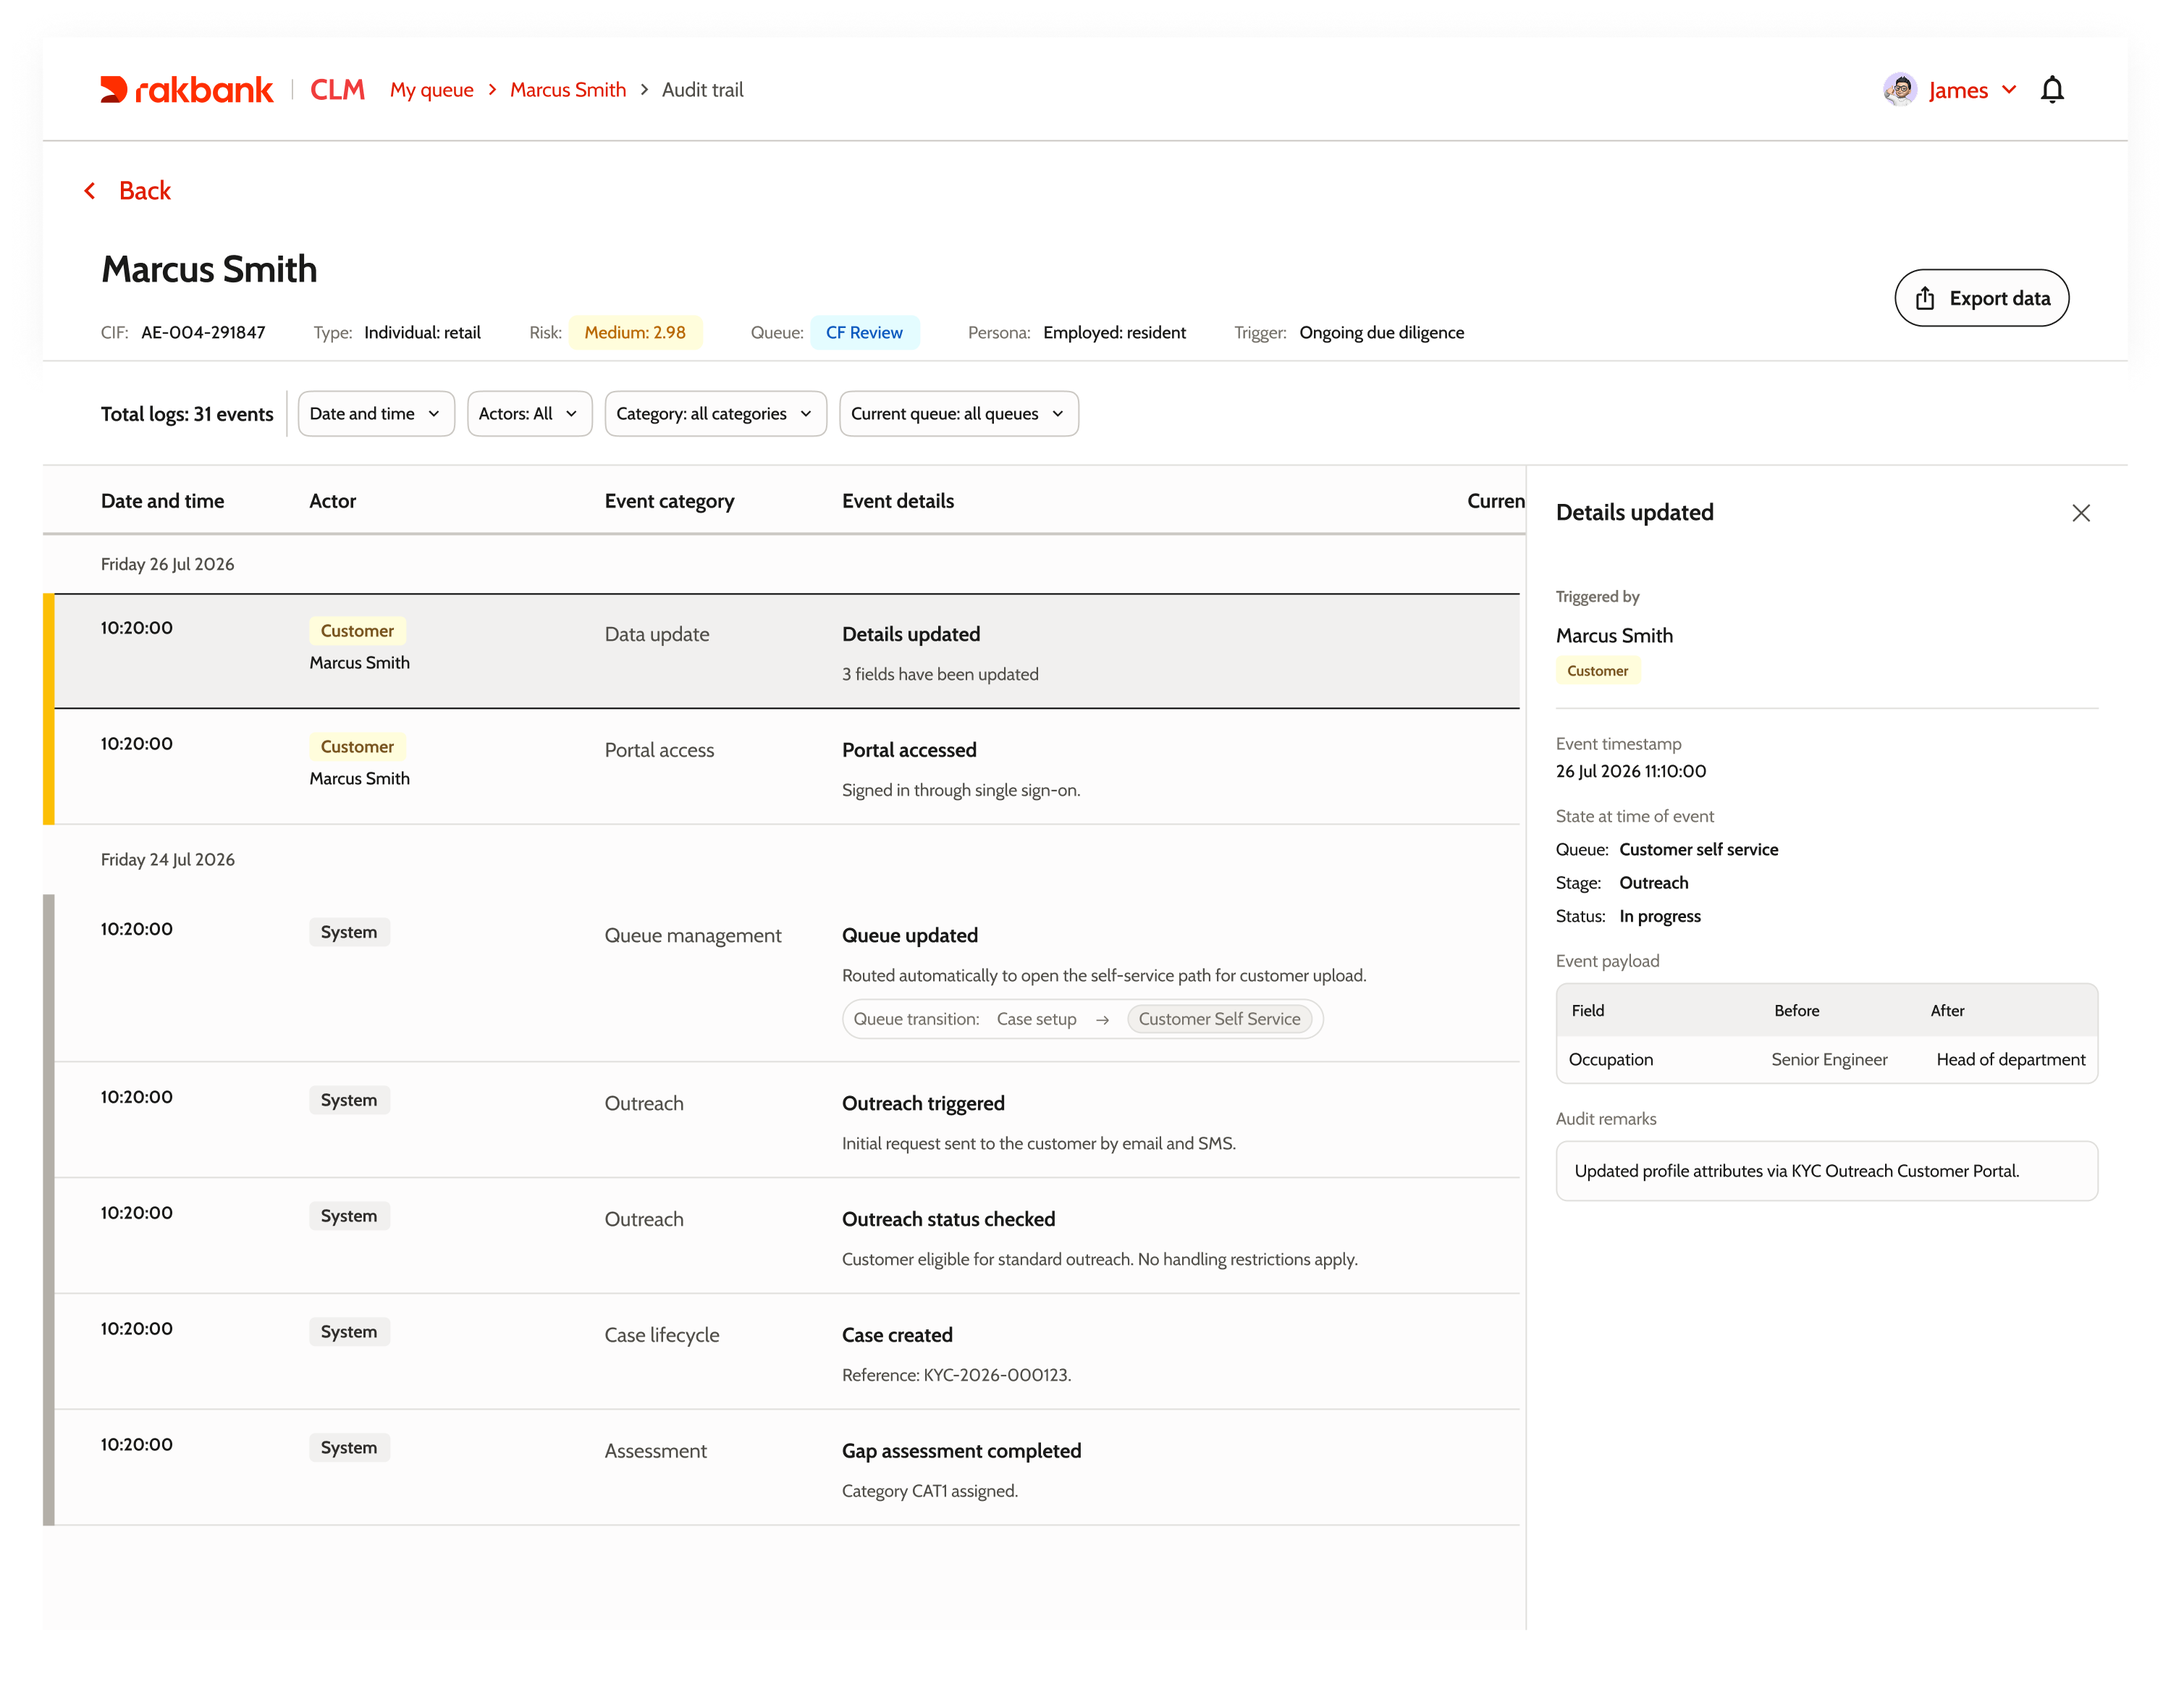
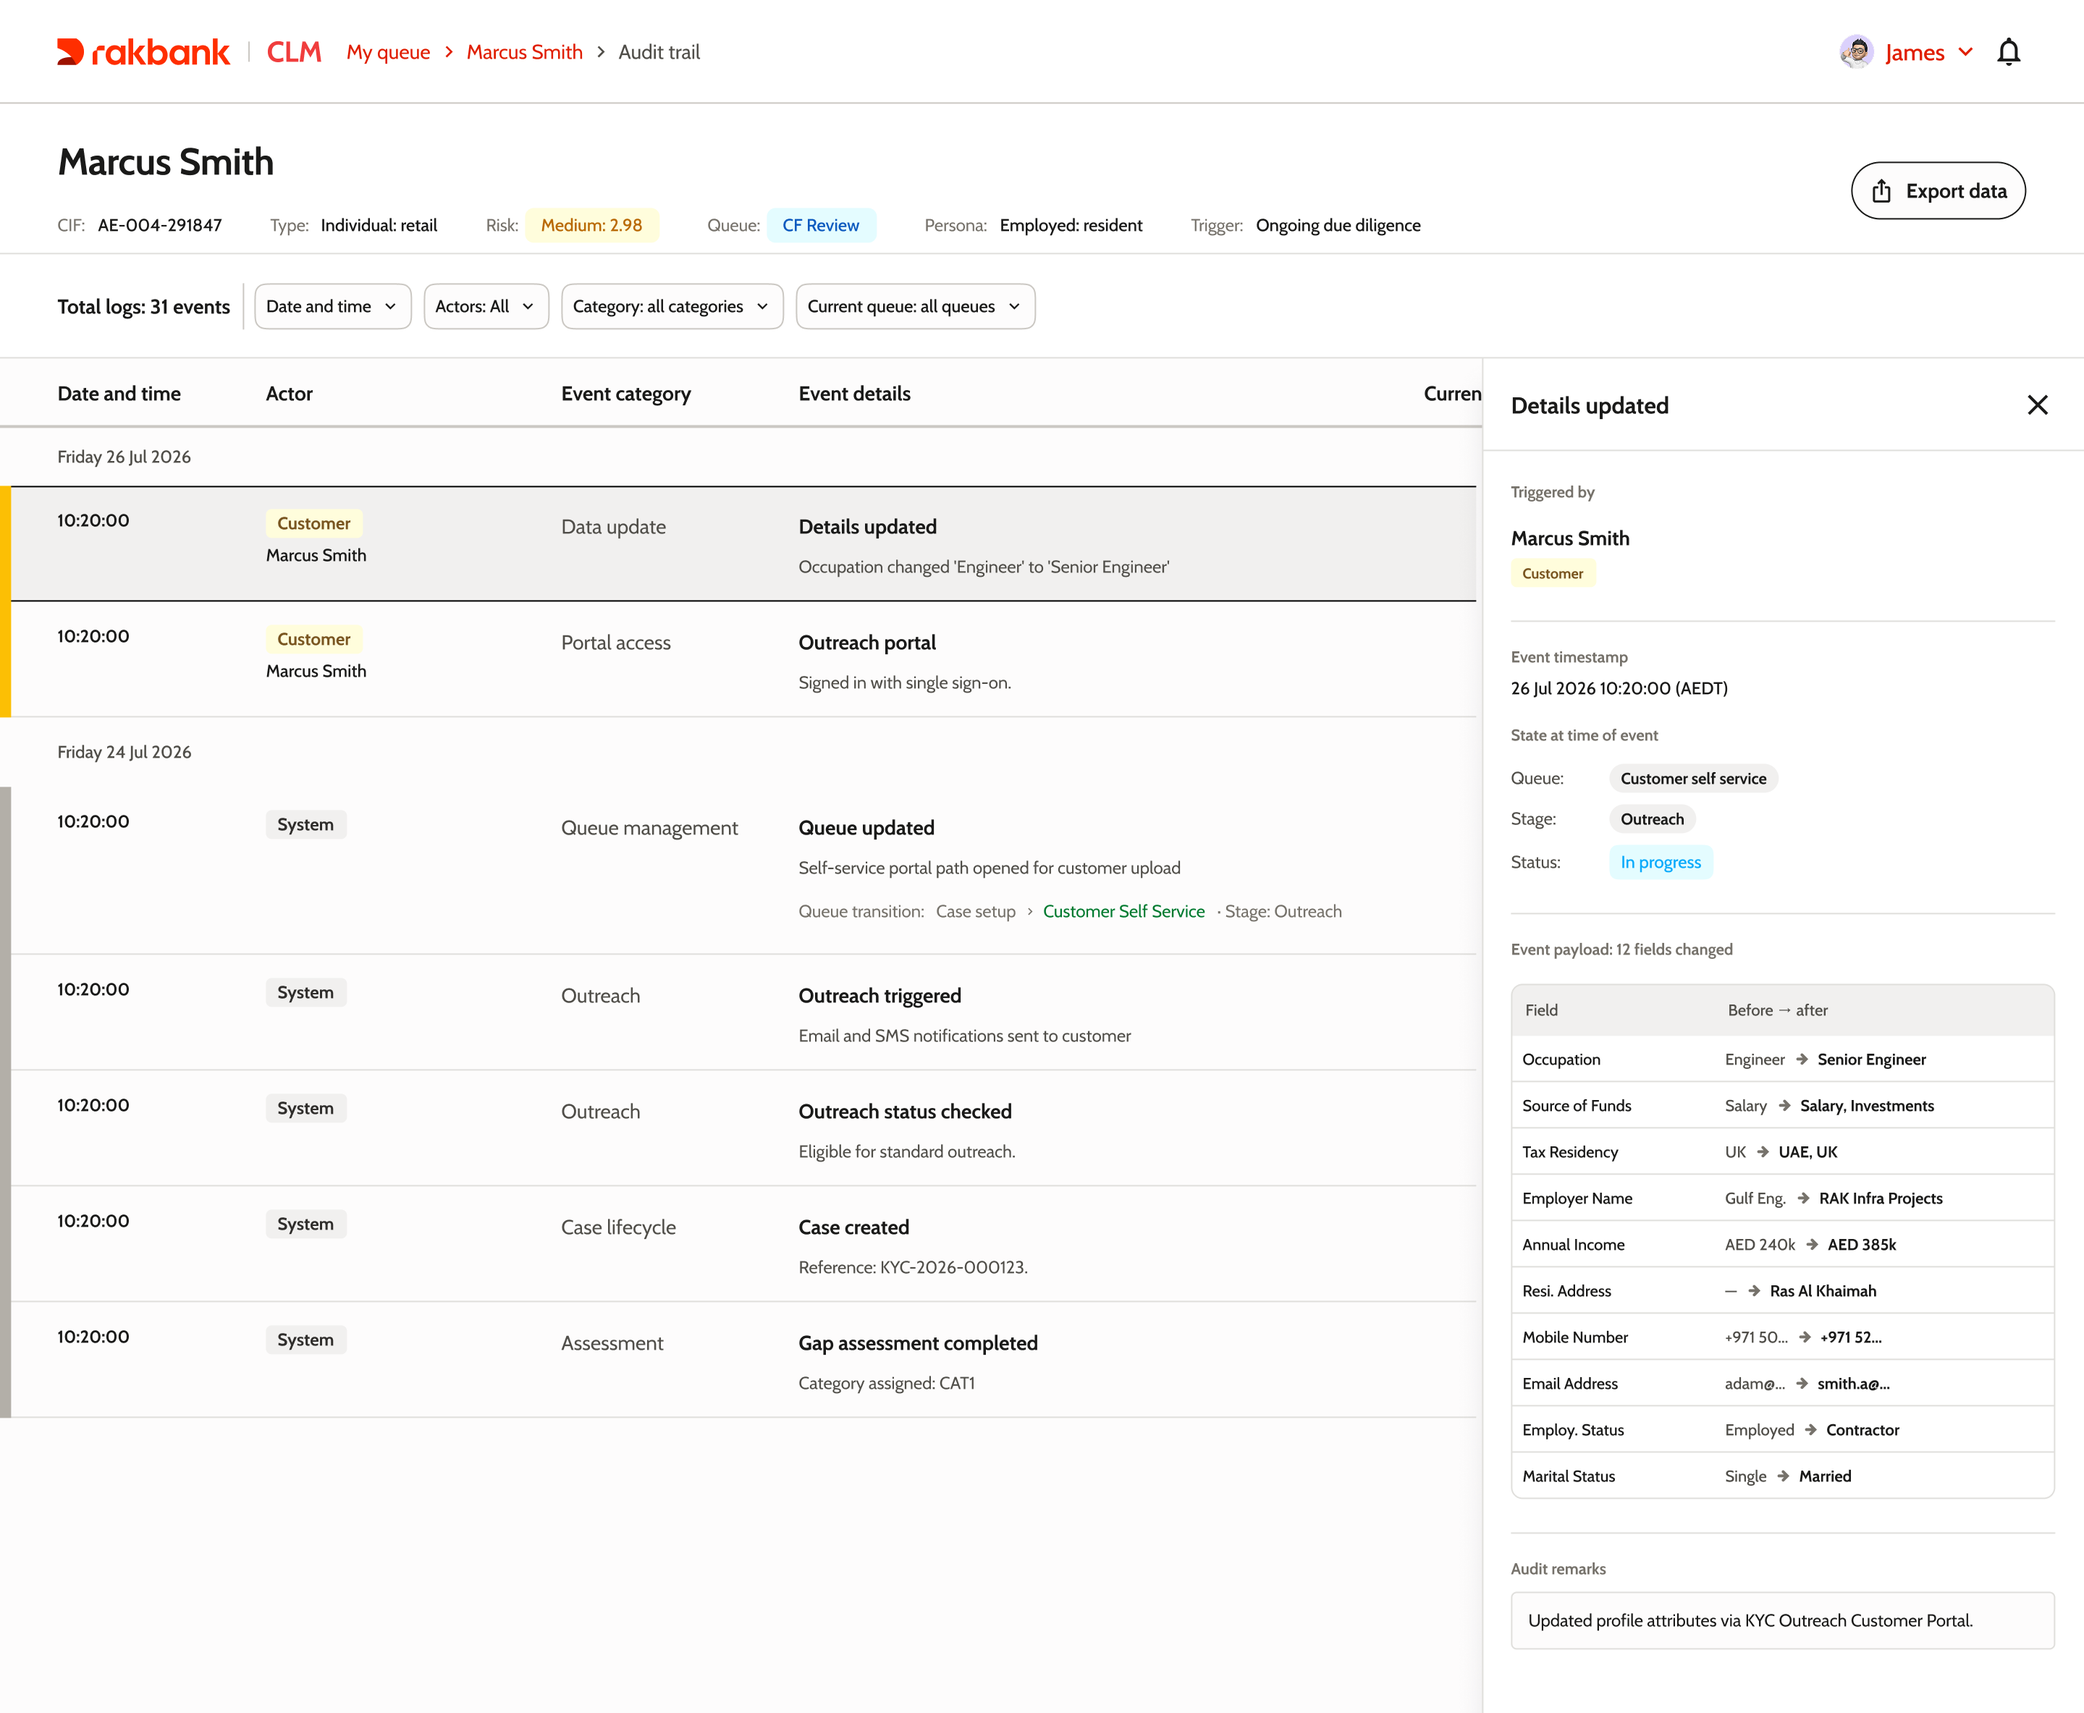
Revert CLM audit trail screenshots to previous versions

diff --git a/case-rakbank-ru.html b/case-rakbank-ru.html
@@ -95,11 +95,11 @@
           </div>
           <p class="n-up">Откройте любое событие — и получите те же четыре ответа: кто это сделал, как выглядело дело в тот самый момент, что изменилось и какую причину указали. Именно этот снимок момента волнует аудиторов больше всего: не как дело выглядит сейчас, а что видел аналитик, когда принимал решение.</p>
           <div class="n-img-block n-img-block--flush n-img-block--ring n-up">
-            <img src="assets/clm-audit-approve.png?v=6" alt="Открытое событие: одобрение дела названным комплаенс-офицером, с состоянием на тот момент, изменениями и указанной причиной" />
+            <img src="assets/clm-audit-approve.png?v=5" alt="Открытое событие: одобрение дела названным комплаенс-офицером, с состоянием на тот момент, изменениями и указанной причиной" />
           </div>
           <p class="n-up">Чем весомее решение, тем богаче запись. Здесь офицер повышает риск-оценку с 2,85 до 4,35 — событие сохраняет старую оценку, новую, скачок уровня с низкого на высокий и причину произошедшего.</p>
           <div class="n-img-block n-img-block--flush n-img-block--ring n-up">
-            <img src="assets/clm-audit-risk.png?v=4" alt="Событие обновления риск-оценки: старая оценка 2,85, новая 4,35, уровень риска повышен с низкого до высокого, с комментарием о причине эскалации" />
+            <img src="assets/clm-audit-risk.png?v=3" alt="Событие обновления риск-оценки: старая оценка 2,85, новая 4,35, уровень риска повышен с низкого до высокого, с комментарием о причине эскалации" />
           </div>
         </div>
 
@@ -110,15 +110,15 @@
           <p class="n-up">Дело формируют не только аналитики. Система перемещает его между очередями. Письма клиентам не доставляются и уходят на повтор. Клиент сам редактирует профиль через портал. След записывает всё это одинаково — потому что для аудитора недоставленное письмо значит не меньше, чем одобрение.</p>
           <div class="n-img-pair n-up">
             <div class="n-img-block n-img-block--flush">
-              <img src="assets/clm-audit-queue.png?v=5" alt="Системное событие: дело автоматически перемещено между очередями, с состоянием до и после" />
+              <img src="assets/clm-audit-queue.png?v=4" alt="Системное событие: дело автоматически перемещено между очередями, с состоянием до и после" />
             </div>
             <div class="n-img-block n-img-block--flush">
-              <img src="assets/clm-audit-exception.png?v=5" alt="Событие сбоя: недоставленное письмо клиенту, с ошибкой SMTP и автоматически поставленным повтором" />
+              <img src="assets/clm-audit-exception.png?v=4" alt="Событие сбоя: недоставленное письмо клиенту, с ошибкой, запланированным повтором и флагом «не разрешено»" />
             </div>
           </div>
           <p class="n-up">Когда клиент обновляет свои данные, след показывает каждое поле до и после, с пометкой значимых для риска.</p>
           <div class="n-img-block n-img-block--flush n-img-block--ring n-up">
-            <img src="assets/clm-audit-details.png?v=5" alt="Событие клиента: данные профиля обновлены через портал, с видом «до и после» по изменённым полям" />
+            <img src="assets/clm-audit-details.png?v=4" alt="Событие клиента: данные профиля обновлены через портал, с видом «до и после» по всем 12 изменённым полям" />
           </div>
         </div>
 

diff --git a/case-rakbank.html b/case-rakbank.html
@@ -95,11 +95,11 @@
           </div>
           <p class="n-up">Open any event and you get the same four answers: who did it, what the case looked like at that exact moment, what changed, and the reason they gave. That snapshot of the moment is what auditors care about most — not what the case looks like now, but what the reviewer could see when they made the call.</p>
           <div class="n-img-block n-img-block--flush n-img-block--ring n-up">
-            <img src="assets/clm-audit-approve.png?v=6" alt="An event opened: a case approval by a named compliance officer, with the state at that moment, what changed, and the reason given" />
+            <img src="assets/clm-audit-approve.png?v=5" alt="An event opened: a case approval by a named compliance officer, with the state at that moment, what changed, and the reason given" />
           </div>
           <p class="n-up">The heavier the decision, the richer the record. Here the officer raises the risk score from 2.85 to 4.35 — the event keeps the old score, the new one, the tier jump from low to high, and why it happened.</p>
           <div class="n-img-block n-img-block--flush n-img-block--ring n-up">
-            <img src="assets/clm-audit-risk.png?v=4" alt="A risk score update event: old score 2.85, new score 4.35, risk tier escalated from low to high, with the remark explaining the escalation" />
+            <img src="assets/clm-audit-risk.png?v=3" alt="A risk score update event: old score 2.85, new score 4.35, risk tier escalated from low to high, with the remark explaining the escalation" />
           </div>
         </div>
 
@@ -110,15 +110,15 @@
           <p class="n-up">A case isn't shaped only by reviewers. The system moves it between queues. Outreach emails fail and get retried. The customer edits their own profile through the portal. The trail records all of it the same way — because to an auditor, a failed email matters as much as an approval.</p>
           <div class="n-img-pair n-up">
             <div class="n-img-block n-img-block--flush">
-              <img src="assets/clm-audit-queue.png?v=5" alt="A system event: the case moved between queues automatically, with the state before and after" />
+              <img src="assets/clm-audit-queue.png?v=4" alt="A system event: the case moved between queues automatically, with the state before and after" />
             </div>
             <div class="n-img-block n-img-block--flush">
-              <img src="assets/clm-audit-exception.png?v=5" alt="A failure event: an outreach email that didn't deliver, with the SMTP error and the automatic retry it was queued for" />
+              <img src="assets/clm-audit-exception.png?v=4" alt="A failure event: an outreach email that didn't deliver, with the error, the scheduled retry, and an unresolved flag" />
             </div>
           </div>
           <p class="n-up">When the customer updates their details, the trail shows every field, before and after, with the ones that matter for risk flagged.</p>
           <div class="n-img-block n-img-block--flush n-img-block--ring n-up">
-            <img src="assets/clm-audit-details.png?v=5" alt="A customer event: profile details updated through the portal, with a before-and-after view of the changed fields" />
+            <img src="assets/clm-audit-details.png?v=4" alt="A customer event: profile details updated through the portal, with a before-and-after view of all 12 changed fields" />
           </div>
         </div>
 
